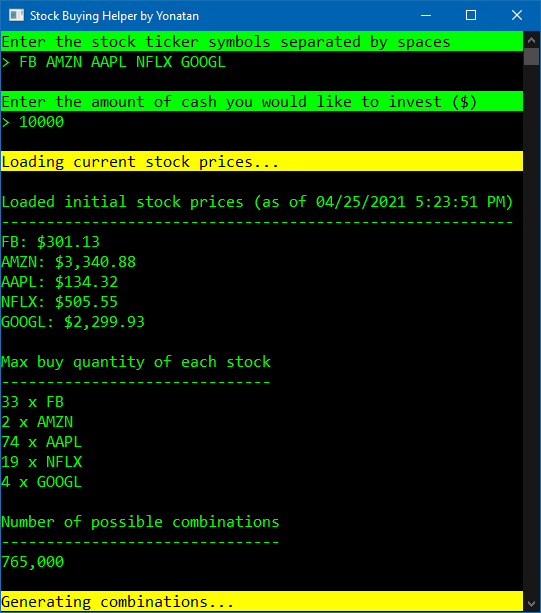
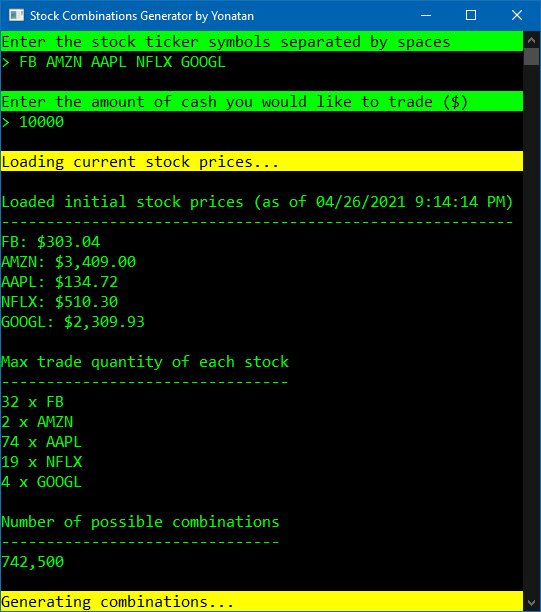
Update screenshots.

diff --git a/StockCombinationsGeneratorConsole/Program.cs b/StockCombinationsGeneratorConsole/Program.cs
@@ -9,10 +9,10 @@ namespace YonatanMankovich.StockCombinationsGeneratorConsole
     {
         static void Main(string[] args)
         {
-            Console.Title = "Stock Buying Helper by Yonatan";
+            Console.Title = "Stock Combinations Generator by Yonatan";
 
             string[] symbols = ConsoleHelpers.Prompt("Enter the stock ticker symbols separated by spaces").Trim().Split(' ');
-            decimal cash = Math.Abs(decimal.Parse(ConsoleHelpers.Prompt("Enter the amount of cash you would like to invest/withdraw ($)")));
+            decimal cash = Math.Abs(decimal.Parse(ConsoleHelpers.Prompt("Enter the amount of cash you would like to trade ($)")));
 
             ConsoleHelpers.Highlight("Loading current stock prices...");
             CombinationsGenerator generator = new CombinationsGenerator(symbols, cash);
